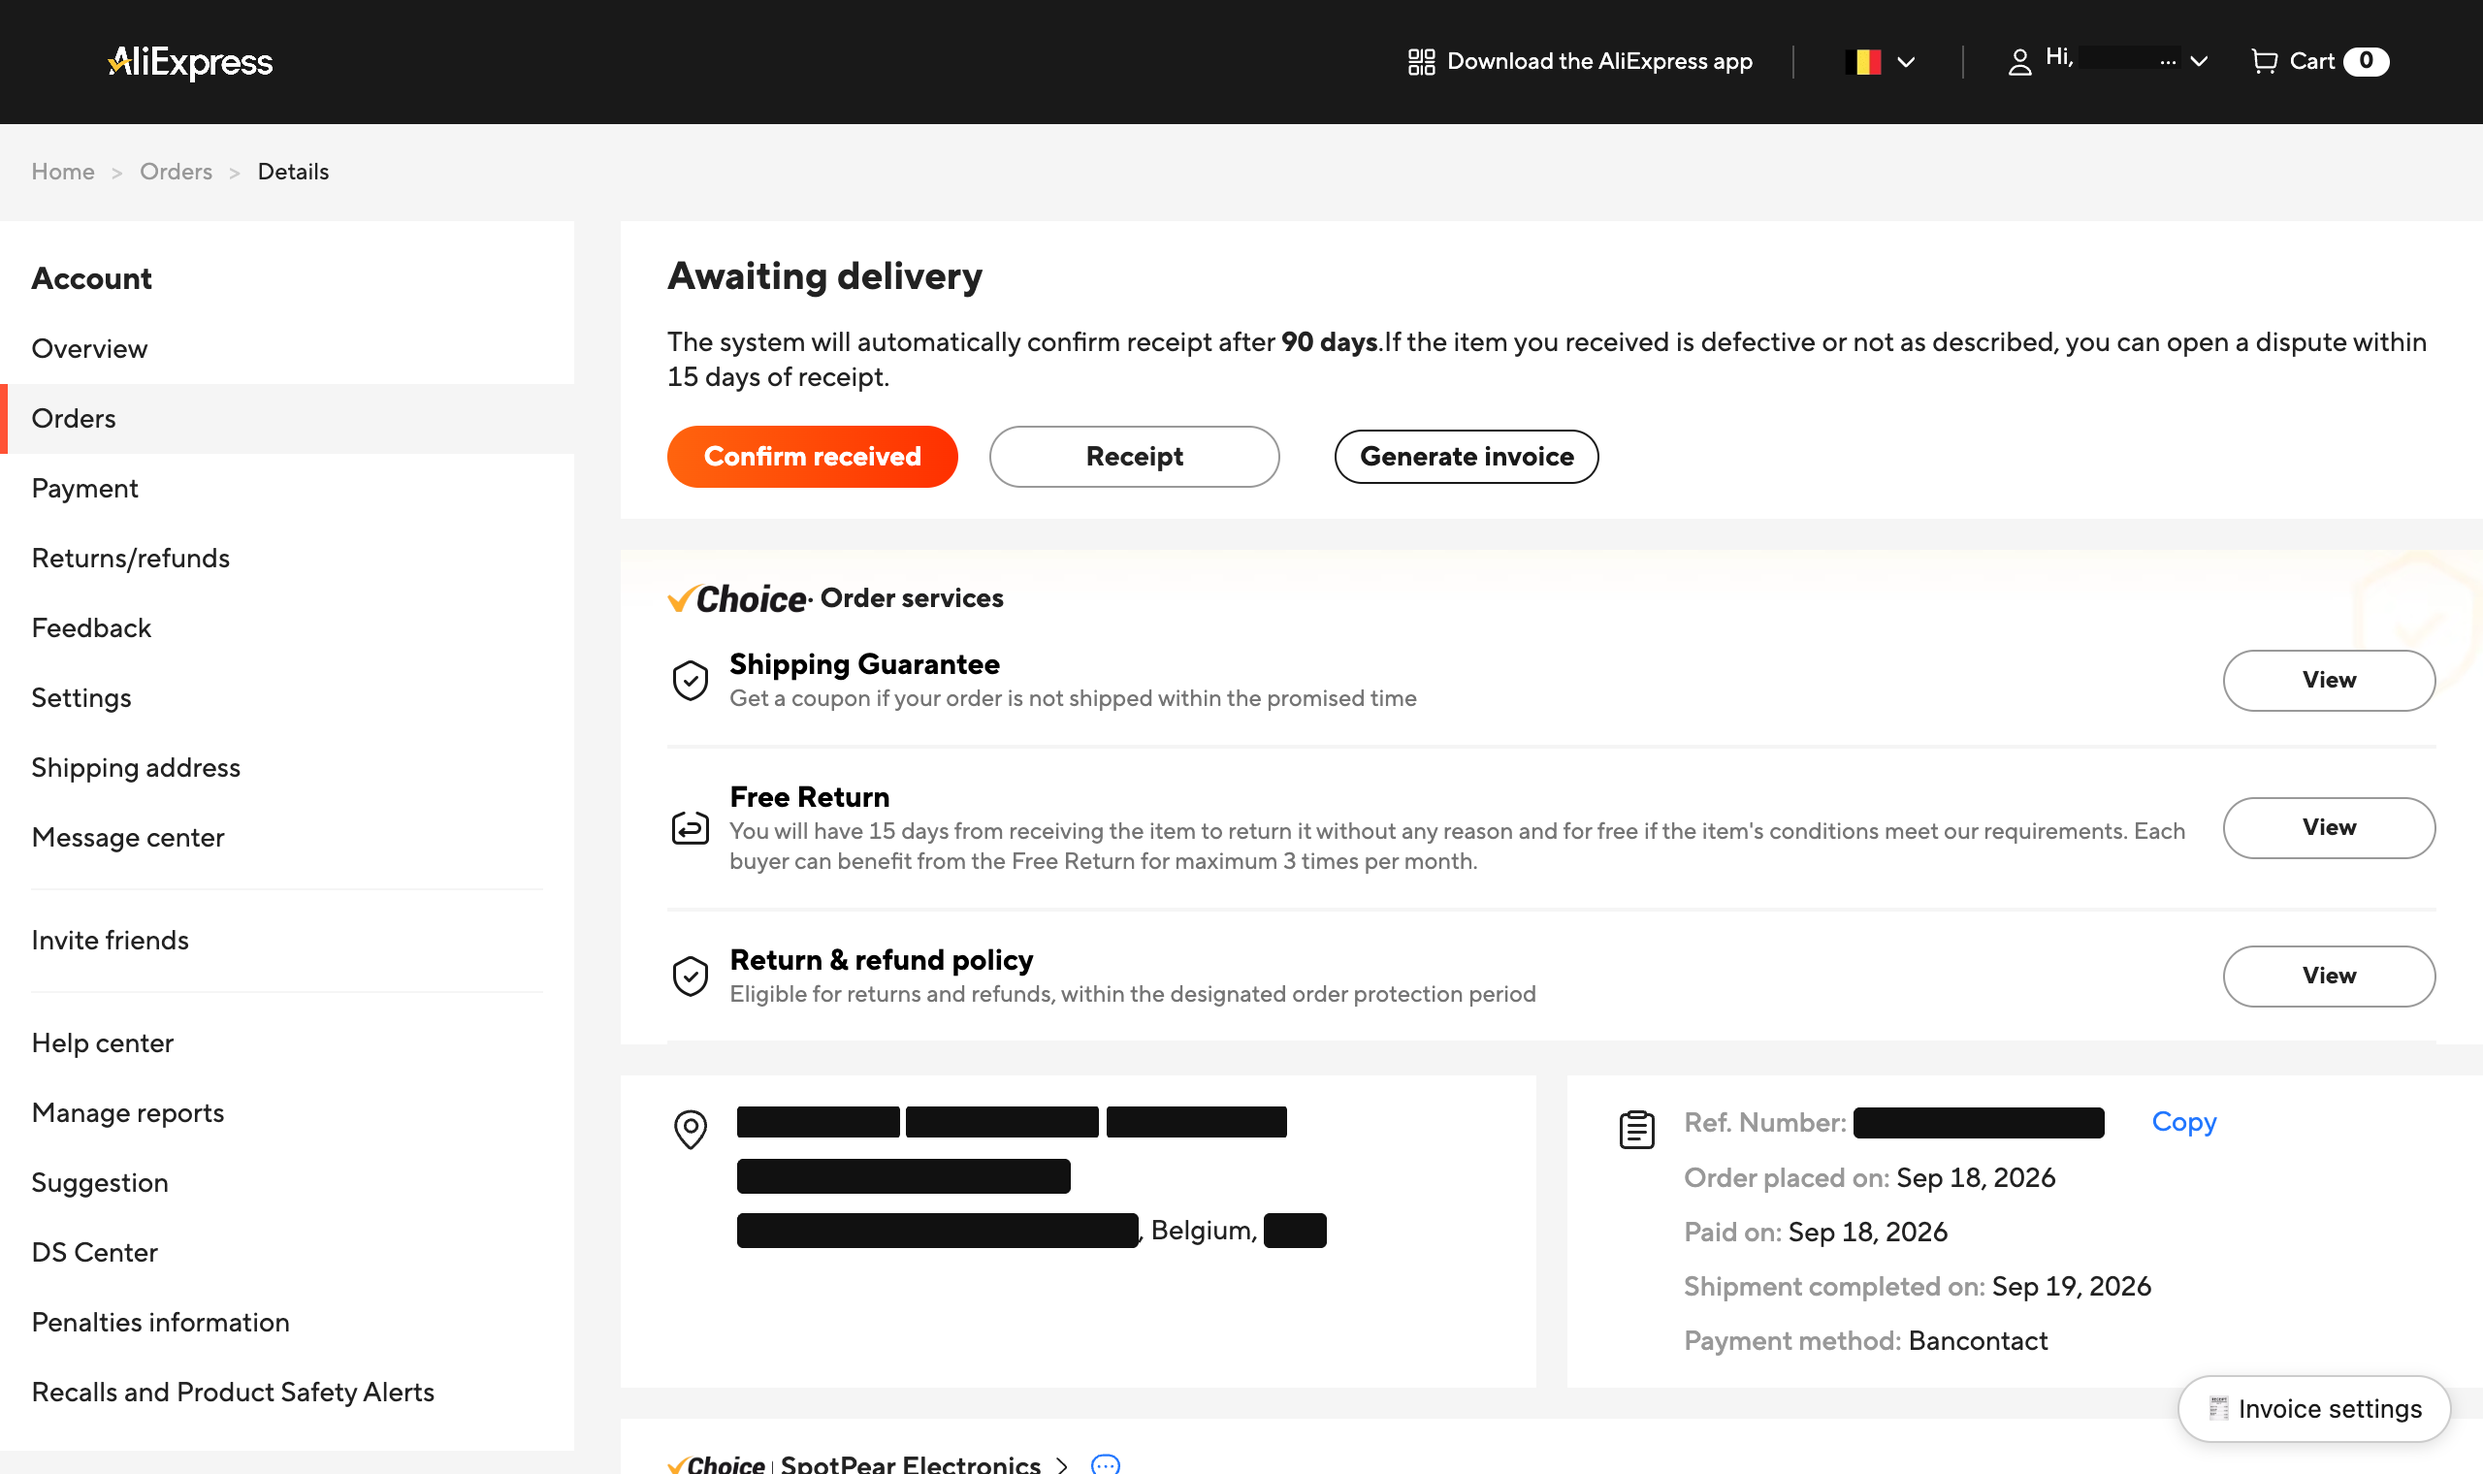
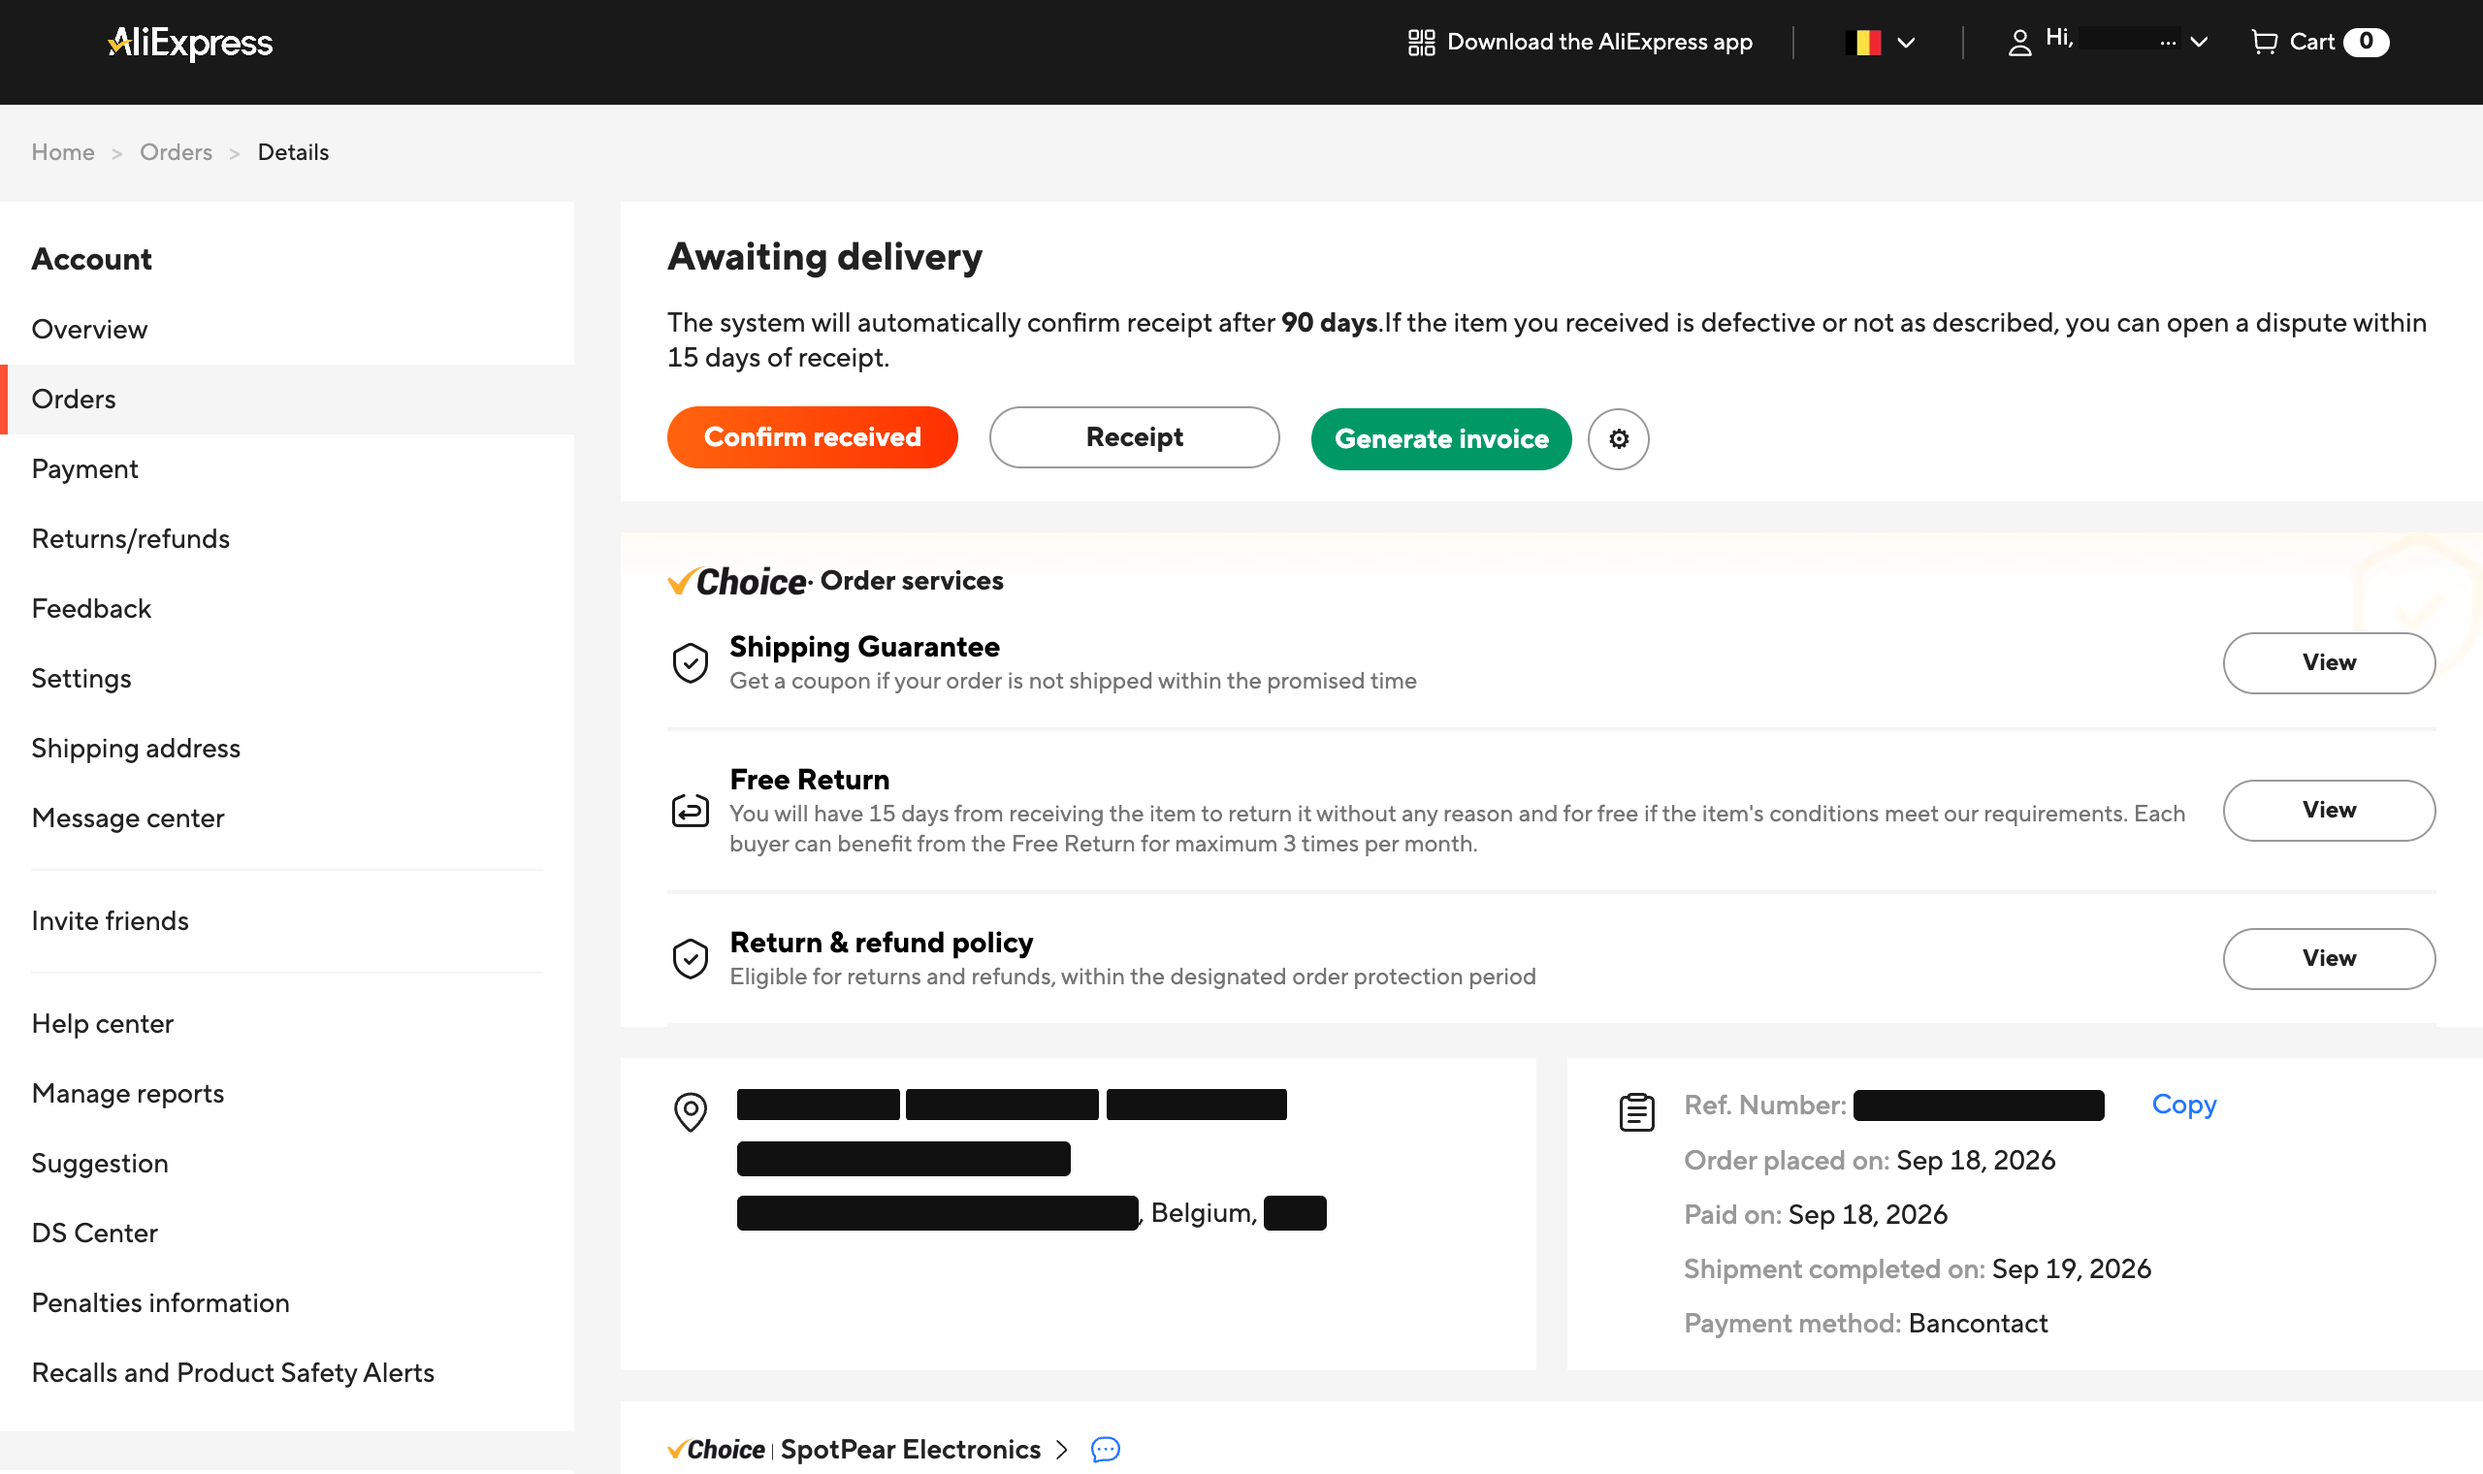
0.2.0: blend into AliExpress — Comet-sized green button, gear for settings, no fixed pill
Review findings (/octo:review, 2026-09-19) applied:
- .ali-invoice-btn no longer inherits the order-list header's 60px line-height; both controls
  now copy AliExpress' Comet metrics (700 14px/24px in the host font stack, 32px tall, 16px
  radius). Fill is #009966, the site's own positive-money green, so the action stands out
  without competing with the orange primary.
- Settings moved from a fixed bottom-right pill (collided with the "Need help?" widget) to a
  32px gear right after every "Generate invoice" button; same anchor, no extra selectors.
- Dialog typeset in the host font, 16px radius, aria-labelledby on the <dialog>.
- Detail page: wrapper margin 0 so the gap equals the host's 16px button spacing.
README wording + all three website screenshots refreshed; settingsHTML test added.

diff --git a/aliexpress-invoice.user.js b/aliexpress-invoice.user.js
@@ -1,7 +1,7 @@
 // ==UserScript==
 // @name         AliExpress Invoice
 // @namespace    https://github.com/elfensky/aliexpress-invoice
-// @version      0.1.1
+// @version      0.2.0
 // @description  Adds a "Generate invoice" button to your AliExpress orders and prints a proper purchase receipt (buyer block, VAT line) to PDF.
 // @author       Andrei Lavrenov
 // @license      MIT
@@ -137,7 +137,7 @@ ${AUTO_PRINT ? '<script>setTimeout(function () { print(); }, 100);</script>' : '
 
   function settingsHTML(b) {
     return `<form method="dialog">
-  <h3>Invoice buyer details</h3>
+  <h3 id="ali-invoice-dialog-title">Invoice buyer details</h3>
   <p>Leave everything empty to use the delivery address of each order.</p>
   <label>Company / name<input name="name" data-1p-ignore autocomplete="off" value="${esc(b.name)}"></label>
   <label>VAT number<input name="vat" data-1p-ignore autocomplete="off" value="${esc(b.vat)}"></label>
@@ -150,6 +150,7 @@ ${AUTO_PRINT ? '<script>setTimeout(function () { print(); }, 100);</script>' : '
   function openSettings() {
     const dlg = document.createElement('dialog');
     dlg.className = 'ali-invoice-dialog';
+    dlg.setAttribute('aria-labelledby', 'ali-invoice-dialog-title');
     dlg.innerHTML = settingsHTML(loadBuyer() || { name: '', vat: '', address: '', extra: '' });
     document.body.appendChild(dlg);
     dlg.addEventListener('close', () => {
@@ -167,53 +168,66 @@ ${AUTO_PRINT ? '<script>setTimeout(function () { print(); }, 100);</script>' : '
 
   // ---- page injection ------------------------------------------------------
 
+  // Sized and typeset like AliExpress' own Comet buttons (700 14px/24px, 32px tall, 16px radius),
+  // measured on the order pages 2026-09-19. #009966 is the site's own positive-money green.
+  const FONT = '"TT Norms Pro", "Open Sans", Roboto, Arial, Helvetica, sans-serif';
   const PAGE_CSS = `
-.ali-invoice-btn { margin: 0 12px; padding: 4px 12px; border: 1px solid #191919; border-radius: 999px; background: #fff; color: #191919; font: inherit; font-weight: 700; cursor: pointer; }
-.ali-invoice-btn:hover { background: #191919; color: #fff; }
-#ali-invoice-settings { position: fixed; right: 16px; bottom: 16px; z-index: 9999; padding: 8px 14px; border: 1px solid #ccc; border-radius: 999px; background: #fff; color: #191919; font: 13px system-ui, sans-serif; cursor: pointer; box-shadow: 0 2px 8px rgba(0,0,0,.12); }
-.ali-invoice-dialog { border: 0; border-radius: 12px; padding: 20px 24px; width: 380px; max-width: 90vw; color: #191919; font: 14px system-ui, sans-serif; }
+.ali-invoice { display: inline-flex; align-items: center; gap: 8px; margin: 0 12px; vertical-align: middle; }
+.order-status .ali-invoice { margin: 0; } /* the host buttons there already carry margin-right: 16px */
+.ali-invoice-btn, .ali-invoice-gear { box-sizing: border-box; height: 32px; border-radius: 16px; font: 700 14px/24px ${FONT}; cursor: pointer; }
+.ali-invoice-btn { padding: 4px 12px; border: 0; background: #009966; color: #fff; }
+.ali-invoice-btn:hover { background: #007a52; }
+.ali-invoice-gear { width: 32px; padding: 0; border: 1px solid #999; background: #fff; color: #222; font-size: 17px; }
+.ali-invoice-gear:hover { border-color: #222; }
+.ali-invoice-btn:focus-visible, .ali-invoice-gear:focus-visible { outline: 2px solid #222; outline-offset: 2px; }
+.ali-invoice-dialog { border: 0; border-radius: 16px; padding: 20px 24px; width: 380px; max-width: 90vw; color: #222; font: 14px/1.4 ${FONT}; }
 .ali-invoice-dialog::backdrop { background: rgba(0,0,0,.4); }
-.ali-invoice-dialog h3 { margin: 0 0 4px; }
+.ali-invoice-dialog h3 { margin: 0 0 4px; font-size: 18px; }
 .ali-invoice-dialog p { margin: 0 0 12px; color: #666; font-size: 12px; }
 .ali-invoice-dialog label { display: block; margin-bottom: 10px; font-size: 12px; color: #444; }
-.ali-invoice-dialog input, .ali-invoice-dialog textarea { display: block; width: 100%; box-sizing: border-box; margin-top: 4px; padding: 6px 8px; border: 1px solid #ccc; border-radius: 6px; font: 14px system-ui, sans-serif; }
+.ali-invoice-dialog input, .ali-invoice-dialog textarea { display: block; width: 100%; box-sizing: border-box; margin-top: 4px; padding: 6px 10px; border: 1px solid #ccc; border-radius: 8px; color: #222; font: 14px/1.4 ${FONT}; }
 .ali-invoice-dialog menu { display: flex; justify-content: flex-end; gap: 8px; margin: 16px 0 0; padding: 0; }
-.ali-invoice-dialog button { padding: 6px 14px; border: 1px solid #ccc; border-radius: 999px; background: #fff; color: #191919; font: inherit; cursor: pointer; }
-.ali-invoice-dialog button.primary { background: #191919; color: #fff; border-color: #191919; }
+.ali-invoice-dialog button { height: 32px; padding: 4px 12px; border: 1px solid #999; border-radius: 16px; background: #fff; color: #222; font: 700 14px/24px ${FONT}; cursor: pointer; }
+.ali-invoice-dialog button.primary { background: #009966; color: #fff; border-color: #009966; }
+.ali-invoice-dialog button.primary:hover { background: #007a52; border-color: #007a52; }
 `;
 
-  function makeButton(orderId) {
+  // "Generate invoice" plus a gear for the buyer settings. The gear shares the button's anchor,
+  // so it never collides with the host's fixed widgets (AliExpress parks "Need help?" bottom-right).
+  function makeControls(orderId) {
+    const wrap = document.createElement('span');
+    wrap.className = 'ali-invoice';
     const btn = document.createElement('button');
     btn.type = 'button';
     btn.className = 'ali-invoice-btn';
     btn.textContent = 'Generate invoice';
     btn.addEventListener('click', (e) => { e.preventDefault(); e.stopPropagation(); generate(orderId); });
-    return btn;
+    const gear = document.createElement('button');
+    gear.type = 'button';
+    gear.className = 'ali-invoice-gear';
+    gear.textContent = '⚙';
+    gear.title = 'Invoice settings';
+    gear.setAttribute('aria-label', 'Invoice settings');
+    gear.addEventListener('click', (e) => { e.preventDefault(); e.stopPropagation(); openSettings(); });
+    wrap.append(btn, gear);
+    return wrap;
   }
 
   function inject() {
-    // Order list: one button per order card, next to "Details".
+    // Order list: controls per order card, next to "Details".
     document.querySelectorAll('.order-item .order-item-header-right:not([data-ali-invoice])').forEach((hdr) => {
       const link = hdr.querySelector('a[href*="orderId="]');
       const orderId = link && new URL(link.href, location.href).searchParams.get('orderId');
       if (!orderId) return;
       hdr.dataset.aliInvoice = orderId;
-      hdr.insertBefore(makeButton(orderId), link);
+      hdr.insertBefore(makeControls(orderId), link);
     });
-    // Order detail: one button in the status block, next to AliExpress' own buttons.
+    // Order detail: controls in the status block, after AliExpress' own buttons.
     const status = document.querySelector('.order-status.order-block:not([data-ali-invoice])');
     const orderId = new URLSearchParams(location.search).get('orderId');
     if (status && orderId) {
       status.dataset.aliInvoice = orderId;
-      status.appendChild(makeButton(orderId));
-    }
-    if (!document.getElementById('ali-invoice-settings')) {
-      const pill = document.createElement('button');
-      pill.id = 'ali-invoice-settings';
-      pill.type = 'button';
-      pill.textContent = '🧾 Invoice settings';
-      pill.addEventListener('click', openSettings);
-      document.body.appendChild(pill);
+      status.appendChild(makeControls(orderId));
     }
   }
 

diff --git a/aliexpress-invoice.test.js b/aliexpress-invoice.test.js
@@ -1,7 +1,7 @@
 // Self-check for the pure parts. Run: node --test
 const test = require('node:test');
 const assert = require('node:assert/strict');
-const { buyerFromAddress, renderReceipt } = require('./aliexpress-invoice.user.js');
+const { buyerFromAddress, renderReceipt, settingsHTML } = require('./aliexpress-invoice.user.js');
 
 // Trimmed shape of mtop.global.finance.taxation.invoice.queryOrderReceiptInfo → data.data
 const receipt = {
@@ -35,4 +35,11 @@ test('renderReceipt shows the buyer, every reported amount, the VAT line, and es
     assert.ok(html.includes(s), 'missing: ' + s);
   }
   assert.ok(!html.includes('Discount'), 'absent keys must not render');
+});
+
+test('settingsHTML labels the dialog, keeps password managers out, and escapes values', () => {
+  const html = settingsHTML({ name: 'A "quoted" <name>', vat: '', address: '', extra: '' });
+  assert.ok(html.includes('id="ali-invoice-dialog-title"'));
+  assert.equal((html.match(/data-1p-ignore/g) || []).length, 4);
+  assert.ok(html.includes('value="A &quot;quoted&quot; &lt;name&gt;"'));
 });

diff --git a/README.md b/README.md
@@ -27,7 +27,7 @@ Updates ship through the script's `@updateURL`, so installs stay current automat
 - **Orders list** (`aliexpress.com/p/order/index.html`): each order card gets a **Generate invoice** button next to *Details*.
 - **Order detail page**: the button sits next to AliExpress' own status buttons.
 - Click it. The receipt opens in a new tab and the print dialog appears. Choose **Save as PDF**. The file is named `aliexpress-<orderId>.pdf`.
-- **🧾 Invoice settings** (bottom right) sets your own buyer block: company name, VAT number, address, and any extra lines (email, IBAN, reference). Leave it empty and the receipt uses the delivery address of each order, splitting a VAT number out of the contact name when one is present (`ACME BV BE0123456789` becomes a name and a VAT line).
+- The **⚙ gear** next to each button sets your own buyer block: company name, VAT number, address, and any extra lines (email, IBAN, reference). Leave it empty and the receipt uses the delivery address of each order, splitting a VAT number out of the contact name when one is present (`ACME BV BE0123456789` becomes a name and a VAT line).
 
 Allow pop-ups for `aliexpress.com` if the receipt tab does not open.
 
